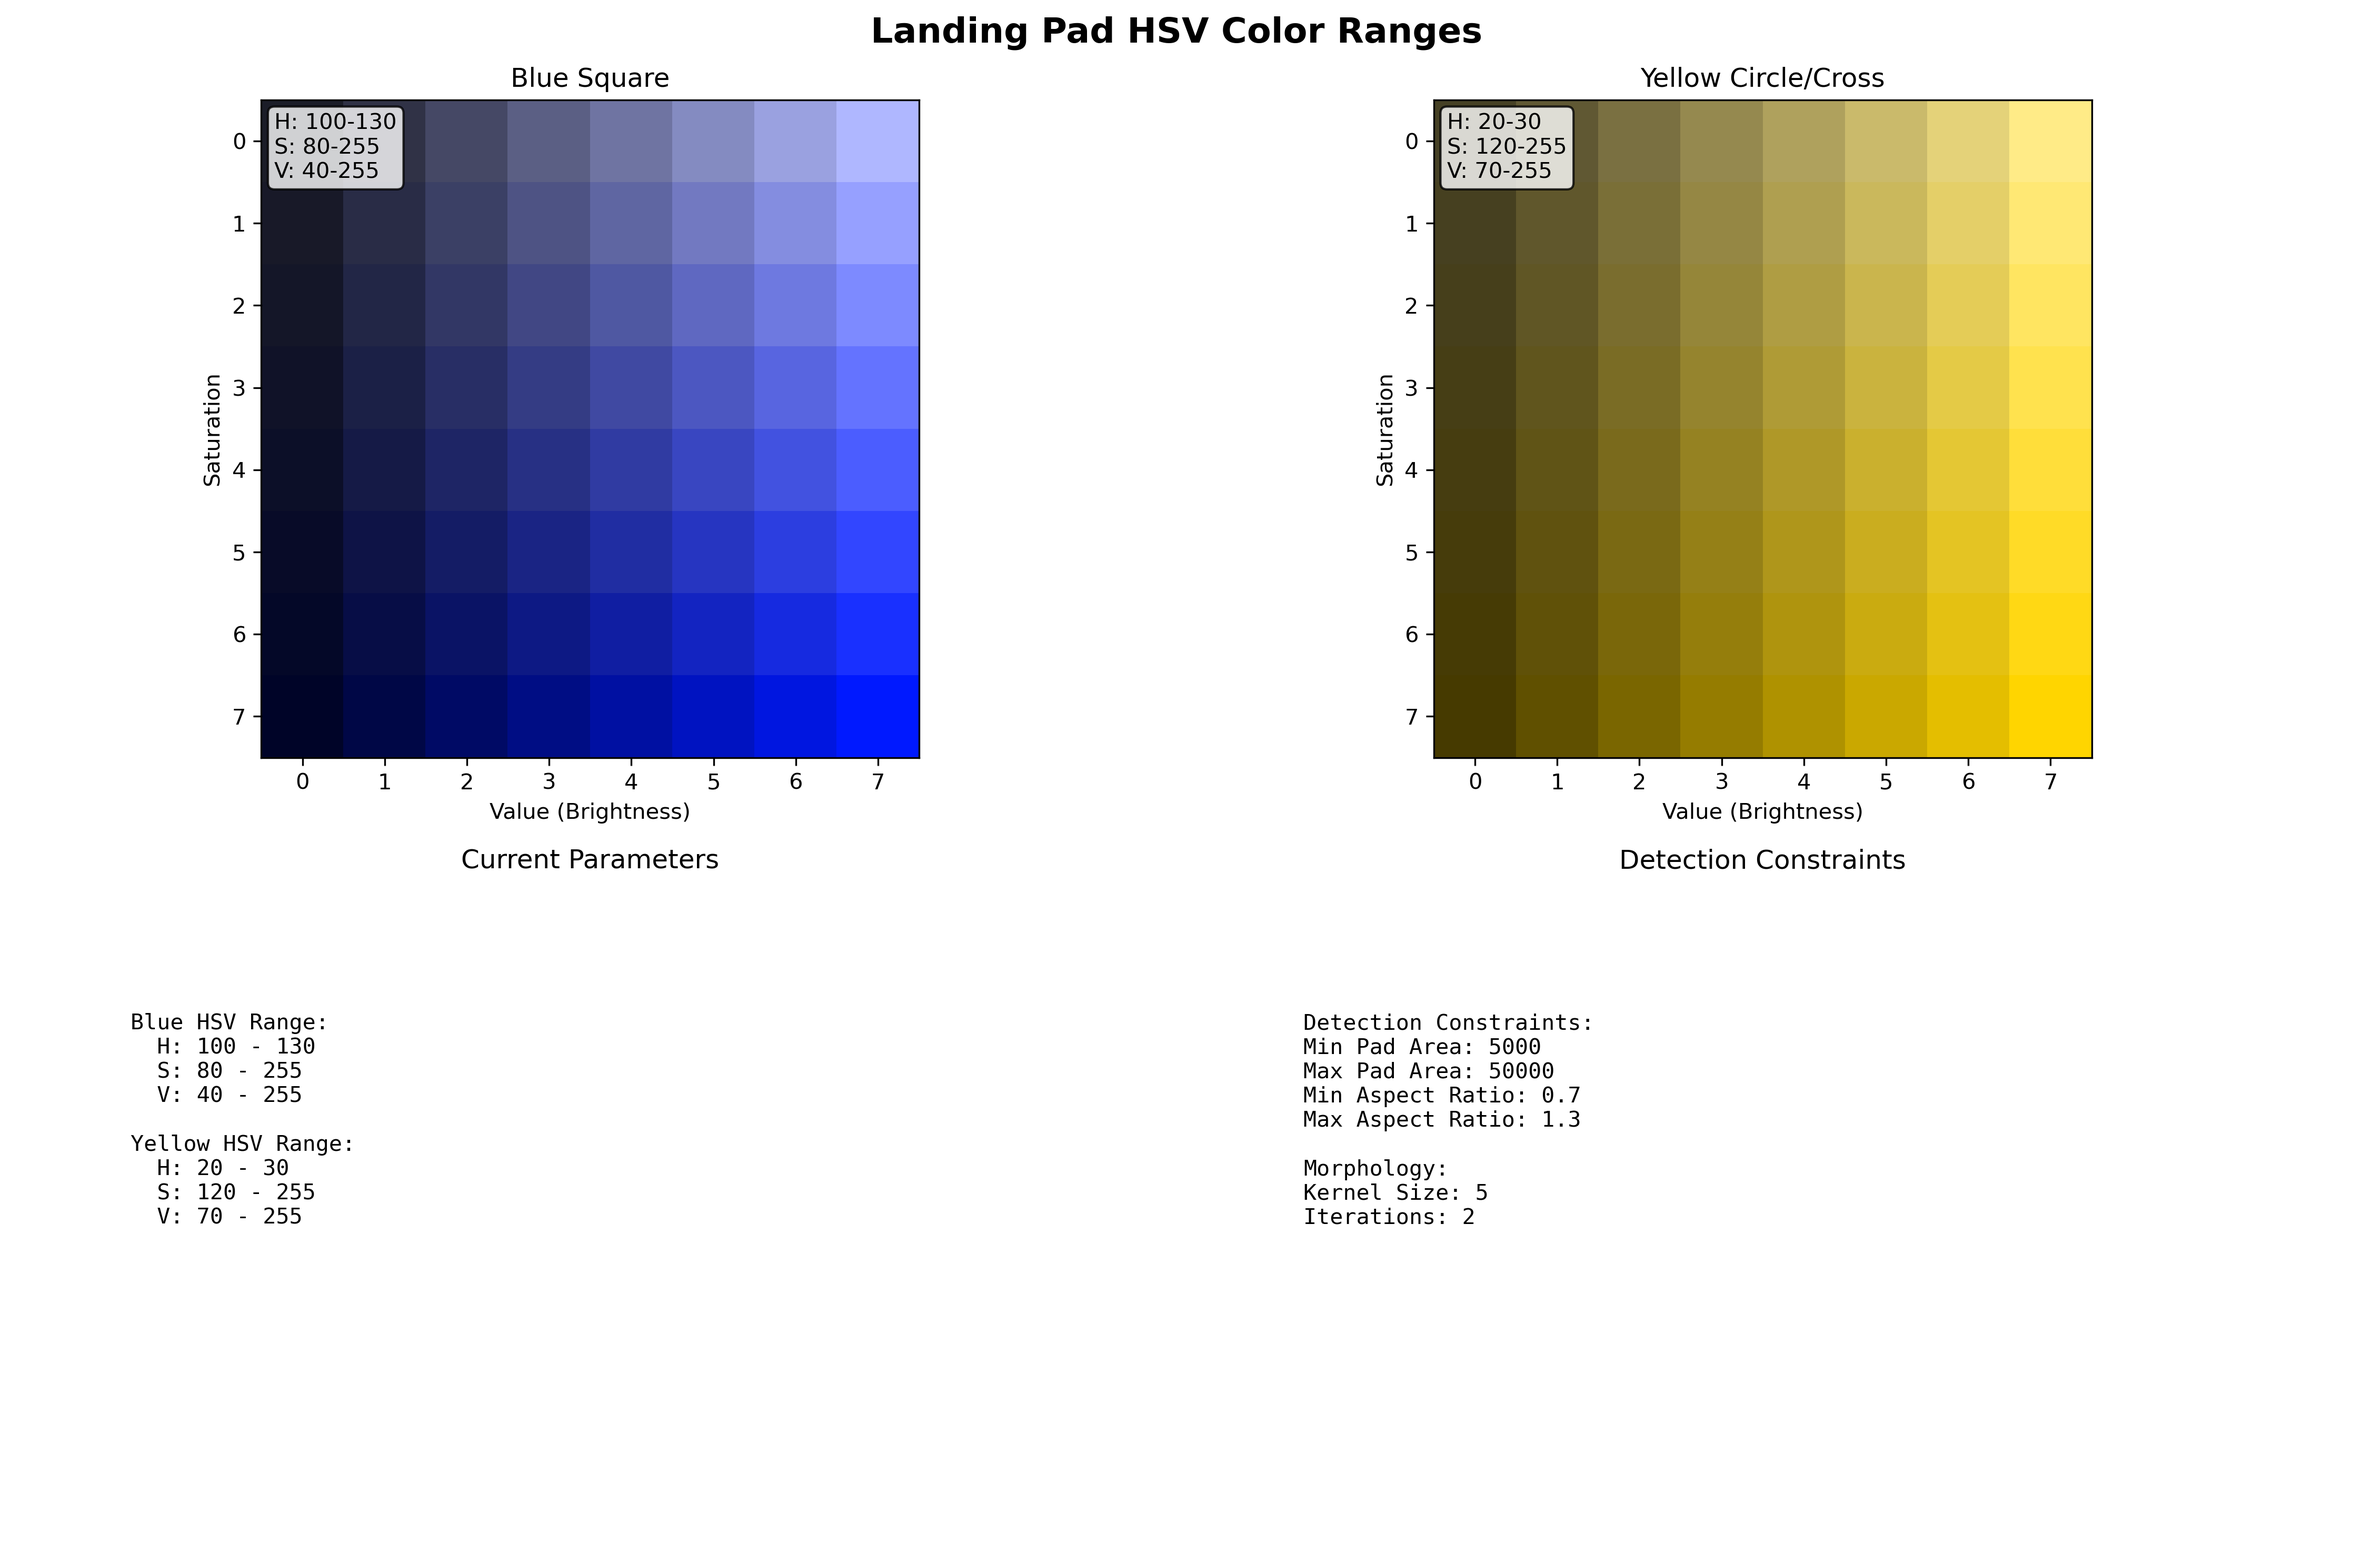
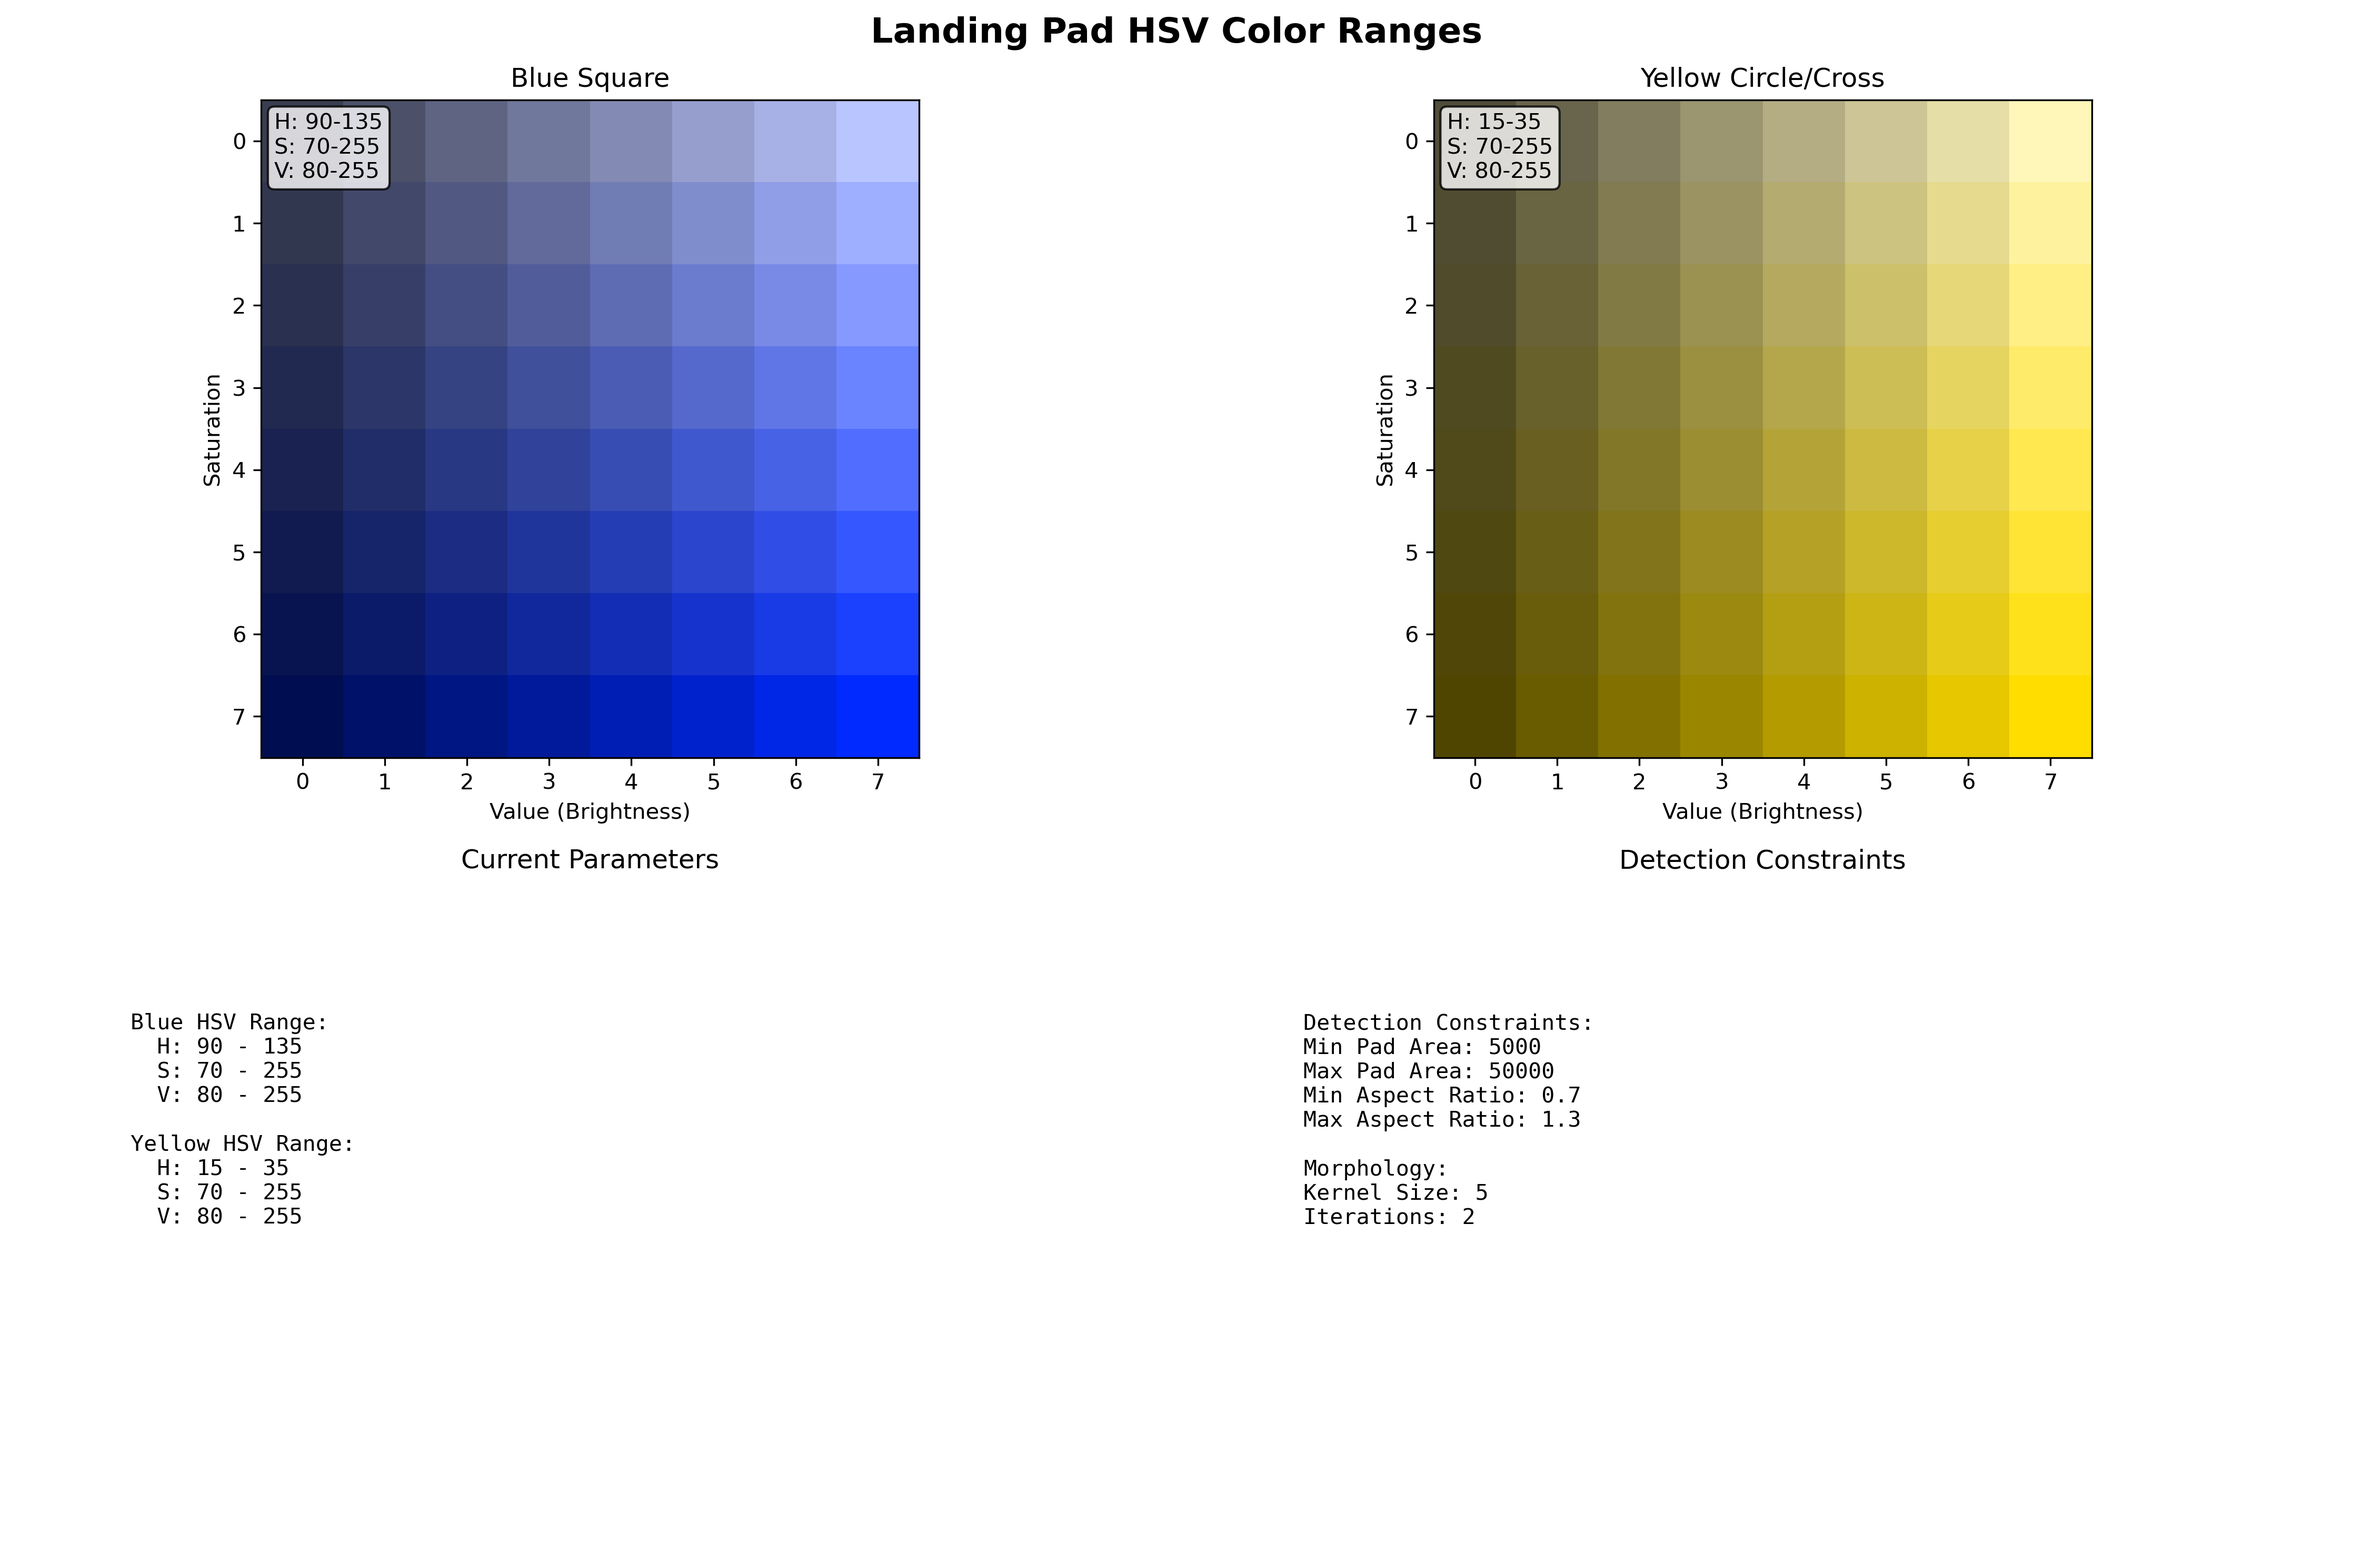
conteudo  na jetson 07 agosto

Changed region(s): [[0.0933, 0.0623, 0.2488, 0.4981], [0.6219, 0.0623, 0.9018, 0.2802], [0.0933, 0.7472, 0.1244, 0.7783]]

diff --git a/fase1/launch/onboard.launch.py b/fase1/launch/onboard.launch.py
@@ -68,7 +68,7 @@ def generate_launch_description():
         exec_arg,
         system_health_node,
         telemetry_recorder_node,        
-        # camera_node,
+        camera_node,
         base_detector_node,
         delayed_fsm_node
     ])
